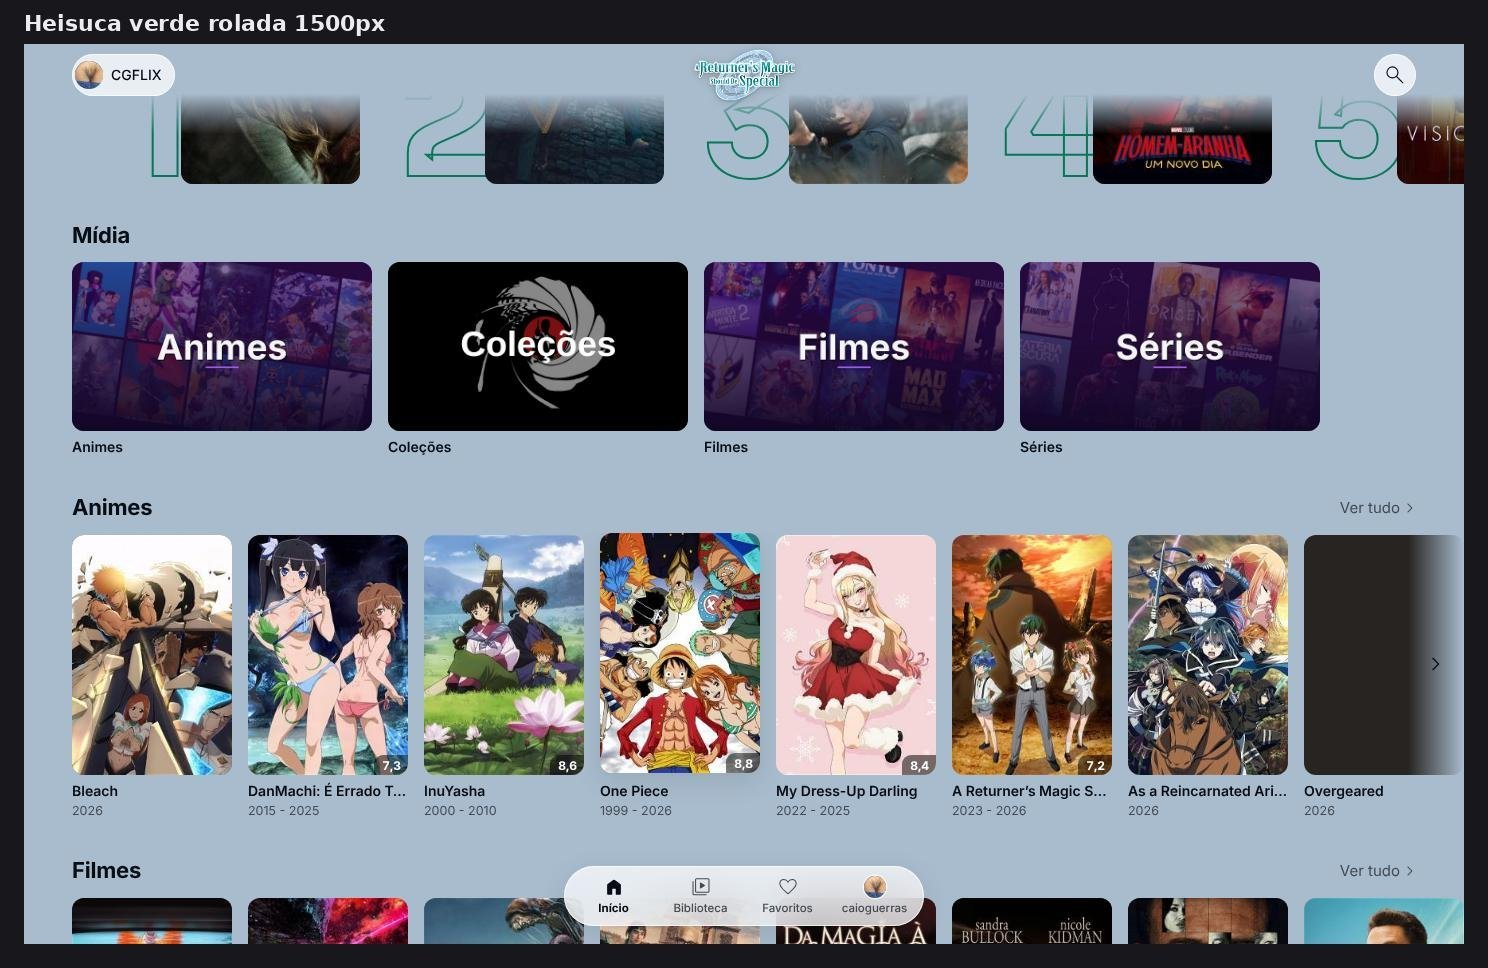
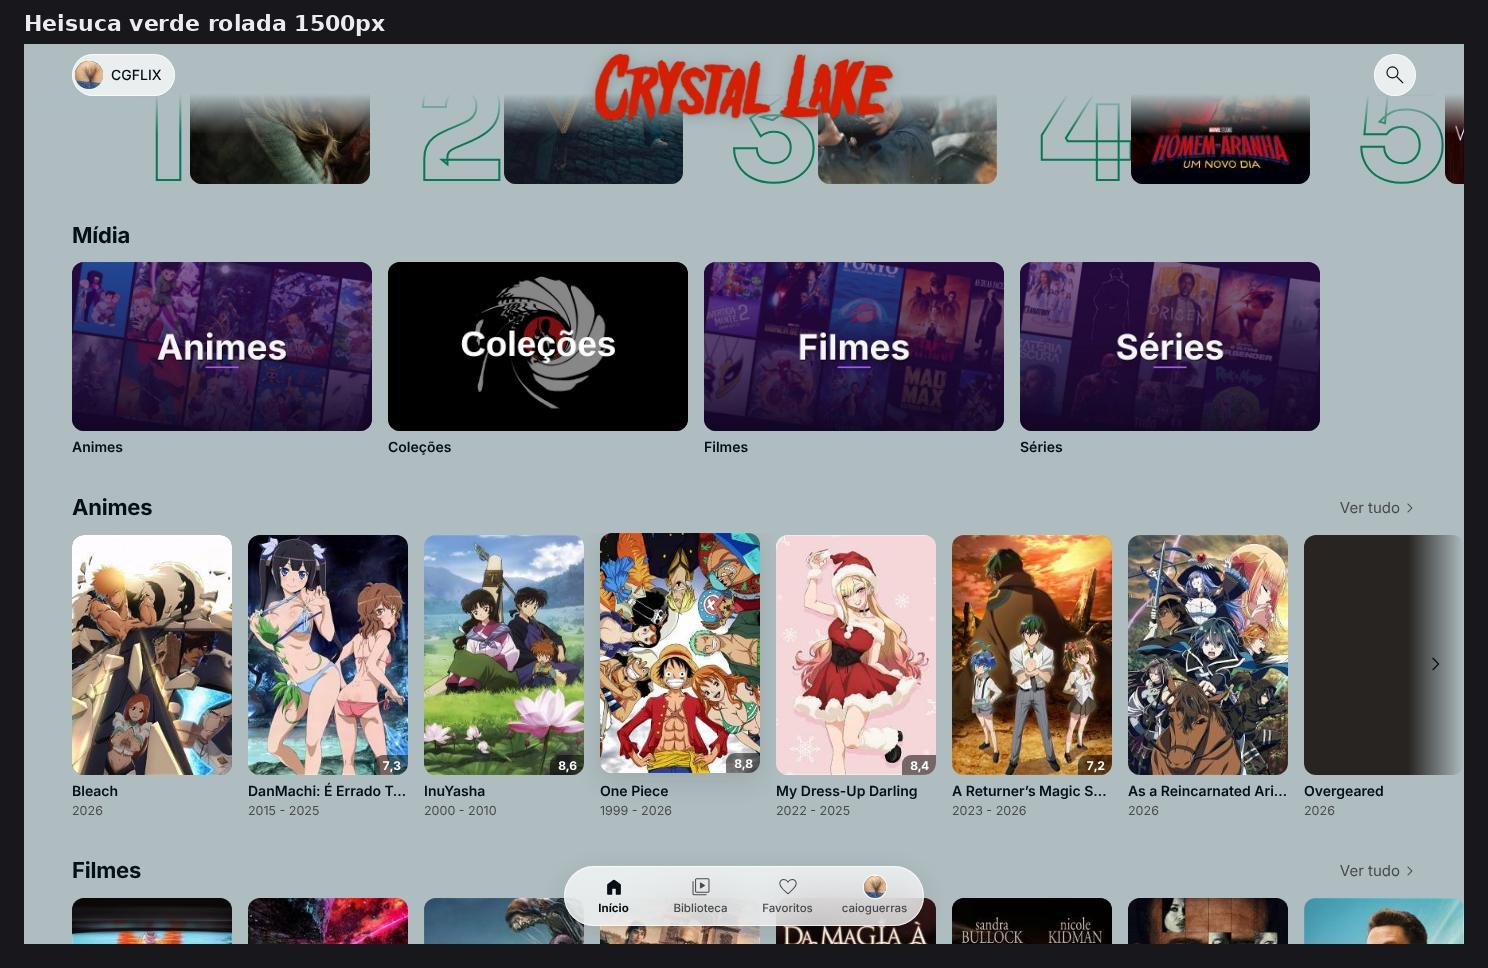
Início: destaque com o Em alta primeiro (completa com os últimos adicionados até 9)
Ajuste da revisão (PLANO v1.2 §4 [C]); relatório e comparações da home atualizados.

Claude-Session: https://claude.ai/code/session_018pKMobSXnCNekuKG5Vq8Vq

Changed region(s): [[0.371, 0.031, 0.9892, 0.2169], [0.0927, 0.093, 0.3401, 0.186]]

diff --git a/apps/web/src/dados/inicio.ts b/apps/web/src/dados/inicio.ts
@@ -14,10 +14,13 @@ export function prepararInicio(s: Sessao, renovar = false): Promise<DadosInicio>
   const chave = `${s.servidor}|${s.usuarioId}`;
   if (!renovar && cache.has(chave)) return cache.get(chave)!;
   const p = (async (): Promise<DadosInicio> => {
-    const [destaque, cont, prox, alta, libs] = await Promise.all([
+    const [recentes, cont, prox, alta, libs] = await Promise.all([
       paraDestaque(s).catch(() => []), continuar(s).catch(() => []), proximos(s).catch(() => []),
       emAlta(s).catch(() => ({ titulo: '', itens: [] as Item[] })), bibliotecasDeVideo(s).catch(() => []),
     ]);
+    // destaque (PLANO §4, v1.2 [C]): primeiro os do Em alta que têm fundo e logo, completando com os últimos adicionados até 9
+    const temArte = (i: Item) => !!(i.BackdropImageTags?.length && i.ImageTags?.Logo);
+    const destaque = [...alta.itens.filter(temArte), ...recentes].filter((i, k, l) => l.findIndex(x => x.Id === i.Id) === k).slice(0, 9);
     // Próximo sem repetir o que já está em Continuar (PLANO §4 [P])
     const naFila = new Set(cont.map(i => i.SeriesId || i.Id));
     const proximo = prox.filter(i => !naFila.has(i.SeriesId || i.Id) && !cont.some(c => c.Id === i.Id));

diff --git a/apps/web/relatorios/b.md b/apps/web/relatorios/b.md
@@ -17,6 +17,9 @@ nos 4 perfis (celular/computador × Roxo/Verde), no Início e nos Favoritos.
 - **Ao rolar, a logo sobe e encaixa no topo**: ela acompanha a página até o meio da pílula e fica ali, encolhendo nos
   últimos 140 px para caber entre a pílula e a busca (a conta usa as posições reais da pílula e da busca, então vale para
   qualquer nome de servidor e no computador). Movimento por `transform` num `requestAnimationFrame`, sem re-renderizar.
+- **Itens do destaque** (pedido da revisão da sessão principal; PLANO v1.2 §4 [C]): primeiro os do **Em alta** que têm fundo
+  e logo, completando com os últimos adicionados até 9 (sem repetir); servidor sem Em alta → só os últimos adicionados.
+  No servidor falso o destaque agora abre em Crystal Lake (1º do Em alta). Código em `dados/inicio.ts`. → [C7].
 - **Carrossel**: troca a cada 8 s; para com o mouse em cima, com o dedo em cima e **enquanto a logo está encaixada** (a cor
   da página não muda debaixo de quem está lendo as fileiras). Arrastar para o lado troca; pontinhos têm área de toque maior.
 - **Fileiras**: Continuar · Próximo · Em alta no Brasil (Top 10) · Mídia · uma por biblioteca com "Ver tudo ›" · **Em breve**
@@ -69,7 +72,9 @@ título. Desfavoritar todos pelo menu leva ao estado vazio. Teclado: Tab passa p
    bem visível e o texto é preto puro). No Roxo o desfoque aparece mais. → [C3].
 6. **Ordem das seções dos Favoritos**: segue a ordem das bibliotecas no servidor (no falso: Filmes antes de Séries; no print
    do VidHub, Séries antes). O título da seção é o nome da biblioteca ("Filmes"), não "Favorito Filmes" (PLANO §7).
-7. **Ao rolar**, o VidHub mostra a logo no topo e a linha de dados ainda visível embaixo dela; no nosso, quando a logo
+7. **Próximo sem repetir o que está em Continuar** (PLANO §4 [P]): diferença **proposital**. O VidHub repete (no print,
+   American Hostage aparece em Continuar e em Próximo); nós tiramos a repetição.
+8. **Ao rolar**, o VidHub mostra a logo no topo e a linha de dados ainda visível embaixo dela; no nosso, quando a logo
    encaixa, o véu do topo cobre a linha de dados logo em seguida (a 450 px ainda se vê a sinopse). Achei melhor do que
    deixar texto passando por trás da pílula.
 
@@ -93,6 +98,7 @@ título. Desfavoritar todos pelo menu leva ao estado vazio. Teclado: Tab passa p
   com o texto em preto puro (AA garantido também, mas o cinza do "2026"/"Ver tudo" some)?
 - **[C4]** "Ver tudo ›" nos Favoritos: grade na própria tela (como fiz) ou outra coisa?
 - **[C5]** Juntei "Séries em breve" e "Filmes em breve" numa fileira só, "Em breve". Prefere separadas?
+- **[C7]** Destaque com o Em alta primeiro (e depois os últimos adicionados), em vez de só os últimos adicionados. Confirma?
 - **[C6]** O carrossel para enquanto a logo está encaixada no topo (para a cor não mudar durante a leitura). Ok?
 
 ## O que mexi fora dos meus arquivos
@@ -107,4 +113,5 @@ título. Desfavoritar todos pelo menu leva ao estado vazio. Teclado: Tab passa p
 - `src/cor/paleta.ts`: claridade/croma (acima) e vidro do Verde.
 - `src/estado/usuario.ts`: **acrescentei** `useMudancas()` (re-render em qualquer troca de visto/favorito). Nada mudou no resto.
 - `src/app.tsx`: só a linha da rota `fav` (+ import).
-- `dados/inicio.ts` ficou como estava.
+- `dados/inicio.ts` (é meu): a lista do destaque passa a juntar Em alta + últimos adicionados; a interface `DadosInicio` não mudou.
+- Puxei o `site-v2` (ed325ec, 9f79bc2, Plano v1.2) com `git pull --rebase`, sem conflito.
